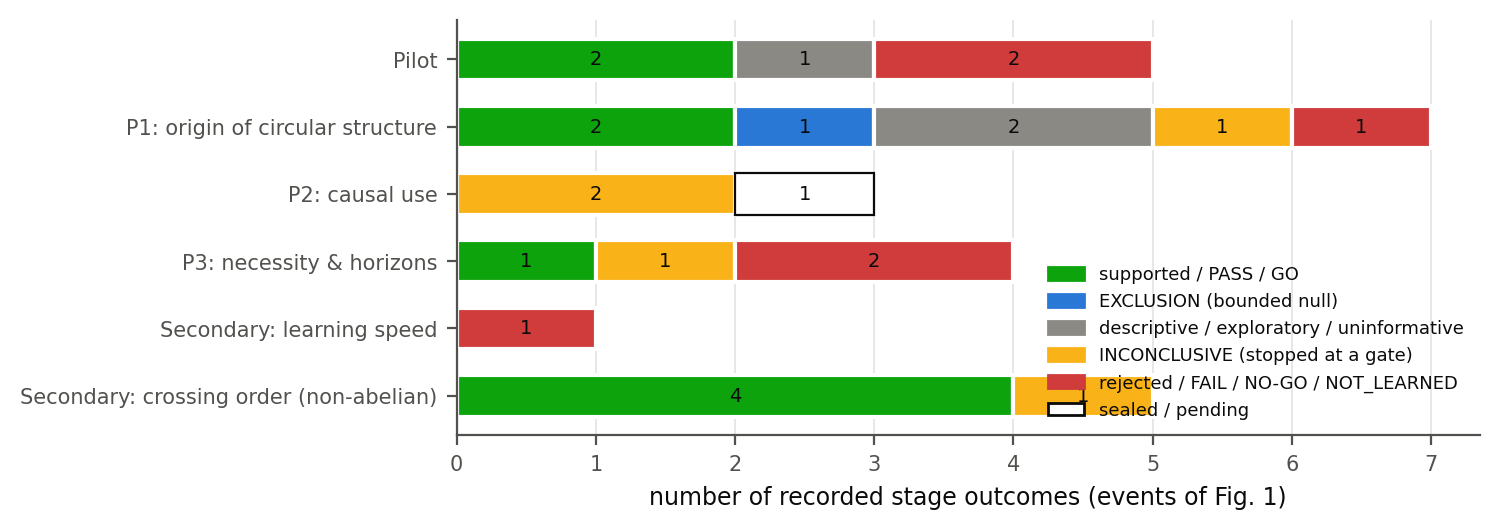
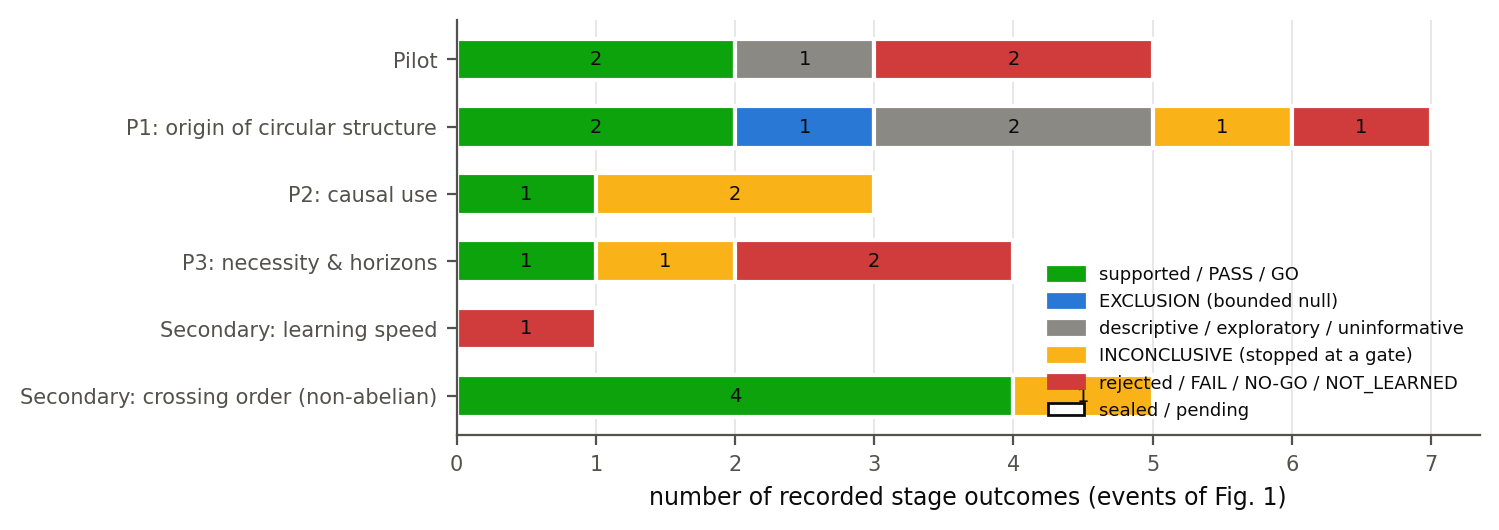
docs(summary): timeline and outcome figures record the readout-attribution decision (USED)

Changed region(s): [[0.491, 0.3019, 0.5831, 0.4226], [0.3069, 0.3321, 0.3989, 0.4226]]

diff --git a/docs/research_summary/make_figures.py b/docs/research_summary/make_figures.py
@@ -184,7 +184,7 @@ EVENTS = [
     ("10-20", 5, "crossing order (trained):\nlearnability GO", "pass", "agent-handoff/jobs/0093/review.md"),
     ("10-20", 5, "crossing order (trained):\n12 models admitted", "pass", "agent-handoff/jobs/0094/review.md"),
     ("10-21", 5, "crossing order (trained):\nINCONCLUSIVE", "inc", "agent-handoff/jobs/0099/review.md"),
-    ("10-22", 2, "readout attribution:\nrunning (no data yet)", "open", "agent-handoff/jobs/0107/review.md"),
+    ("10-26", 2, "readout attribution:\nUSED (3/3 models)", "pass", "agent-handoff/jobs/0115/review.md"),
 ]
 LANE_HEAD = [chr(10).join(x) for x in (("Pilot",), ("P1", "origin"), ("P2", "causal use"),
              ("P3", "horizons"), ("learning", "speed"), ("crossing", "order"))]
